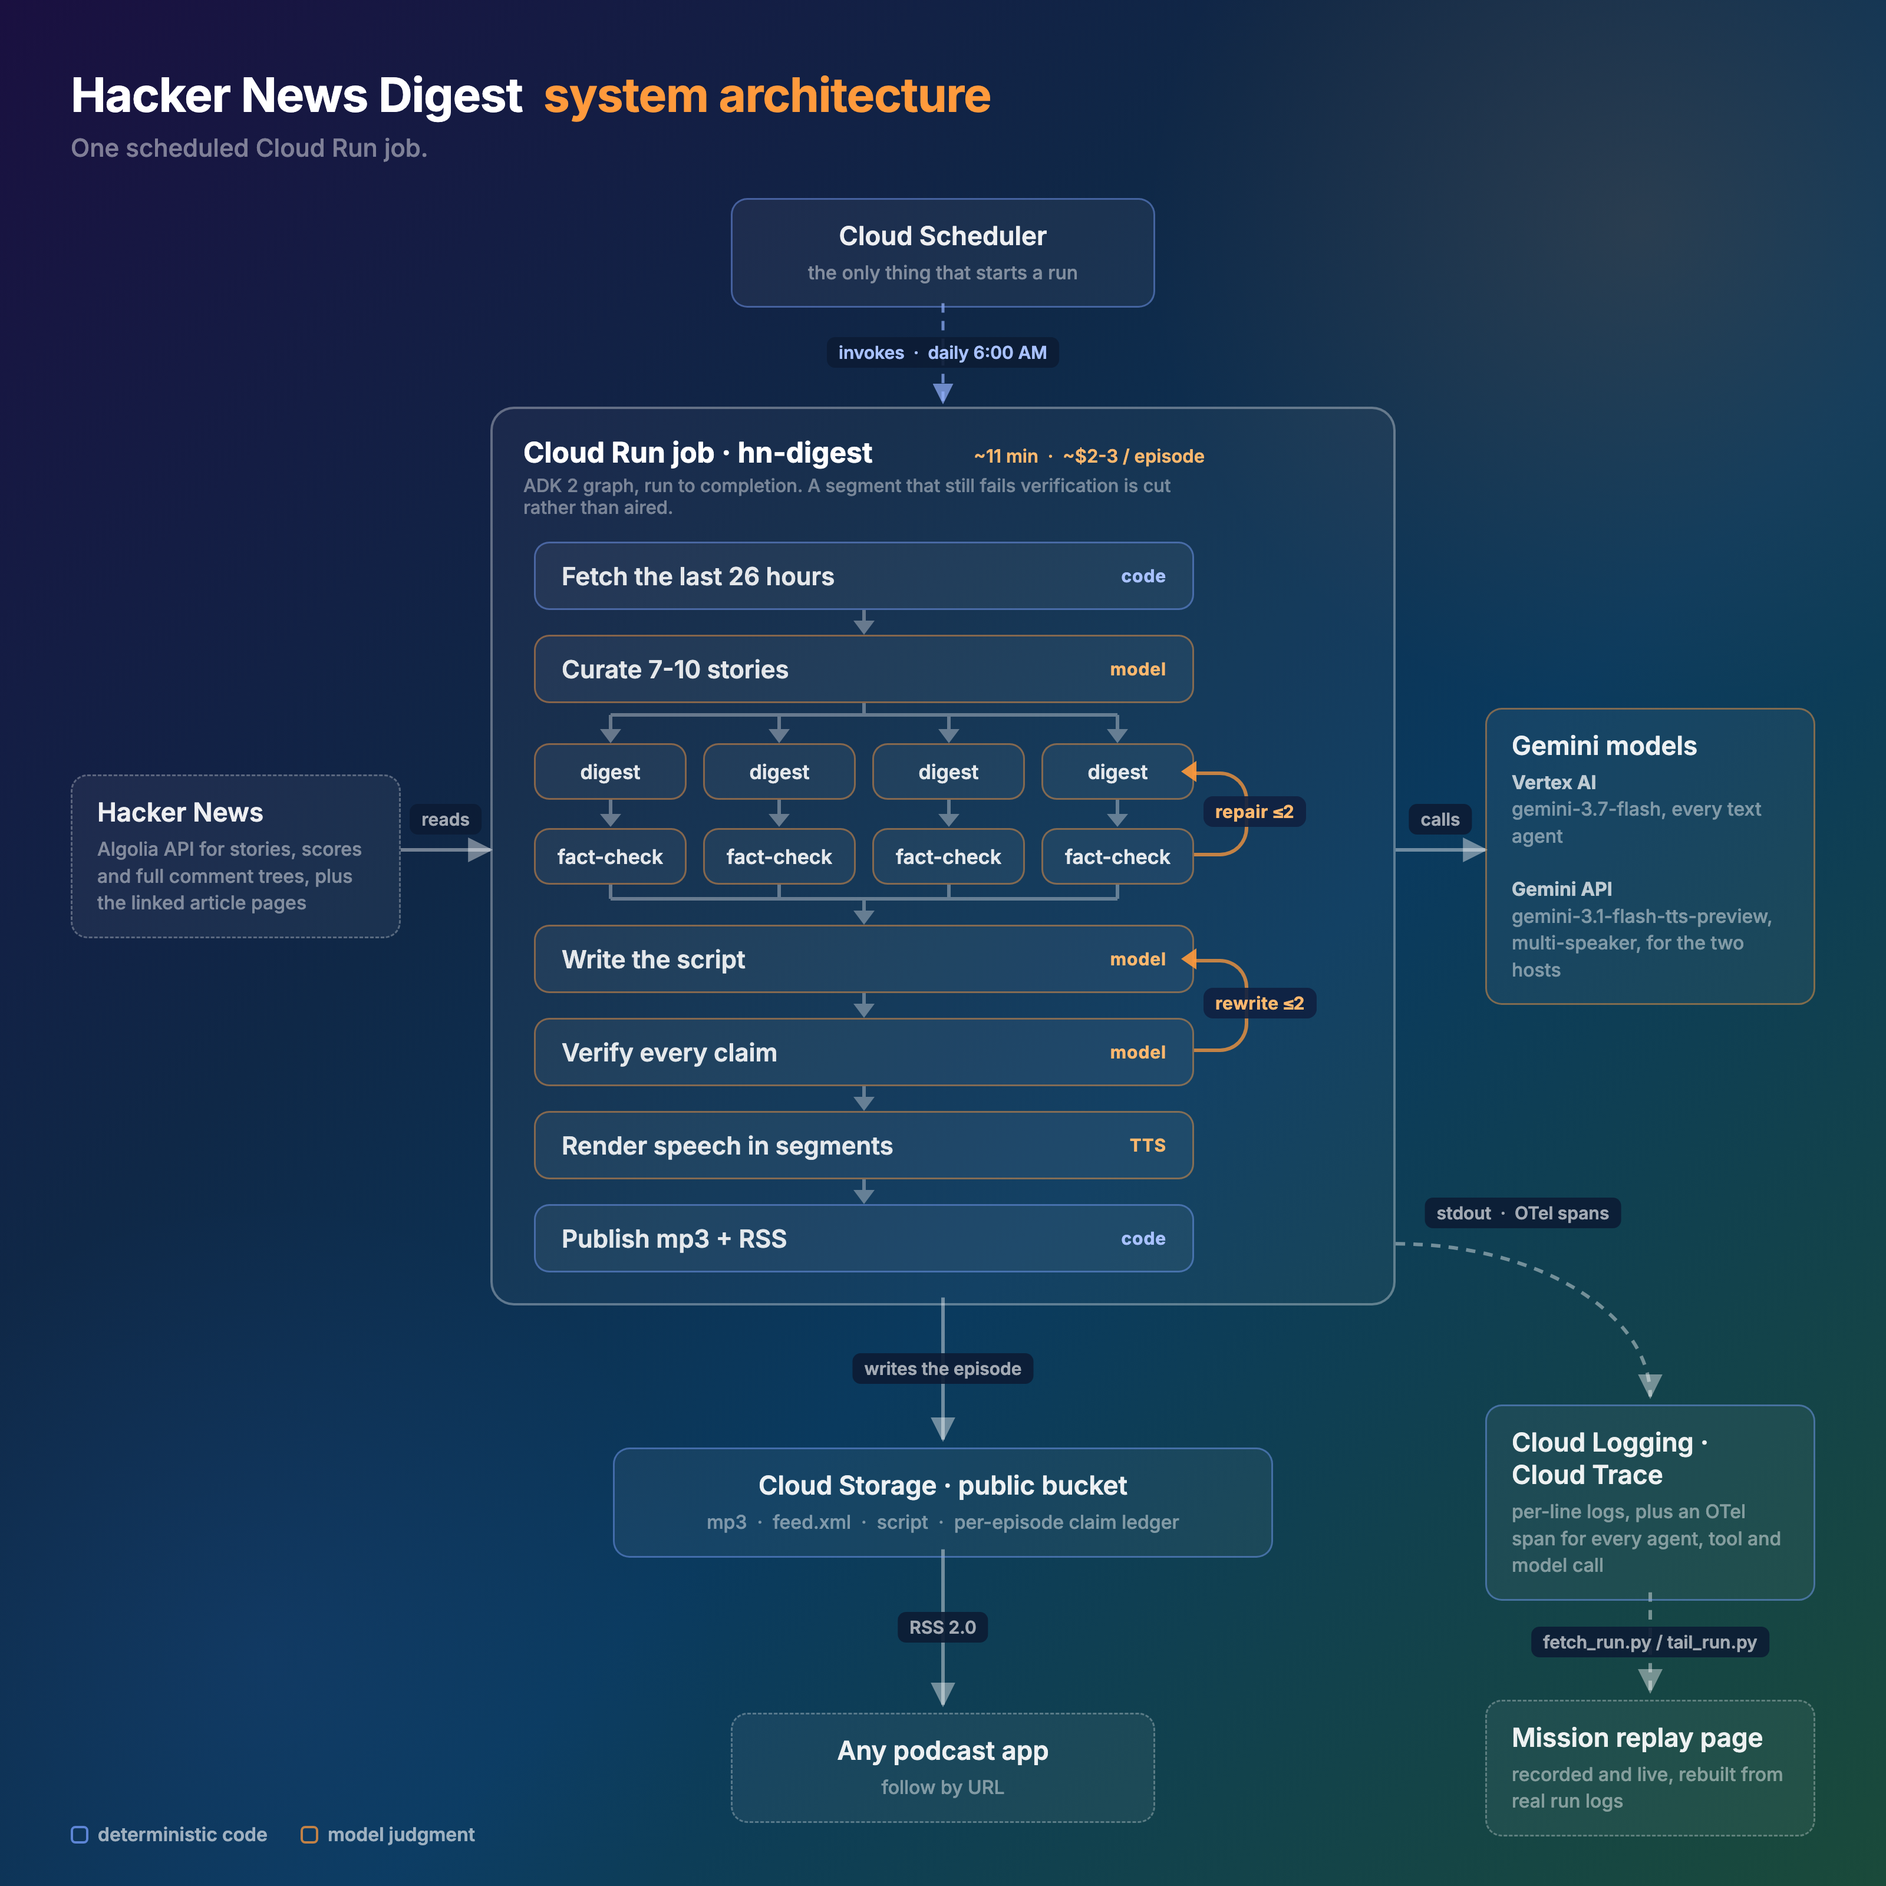
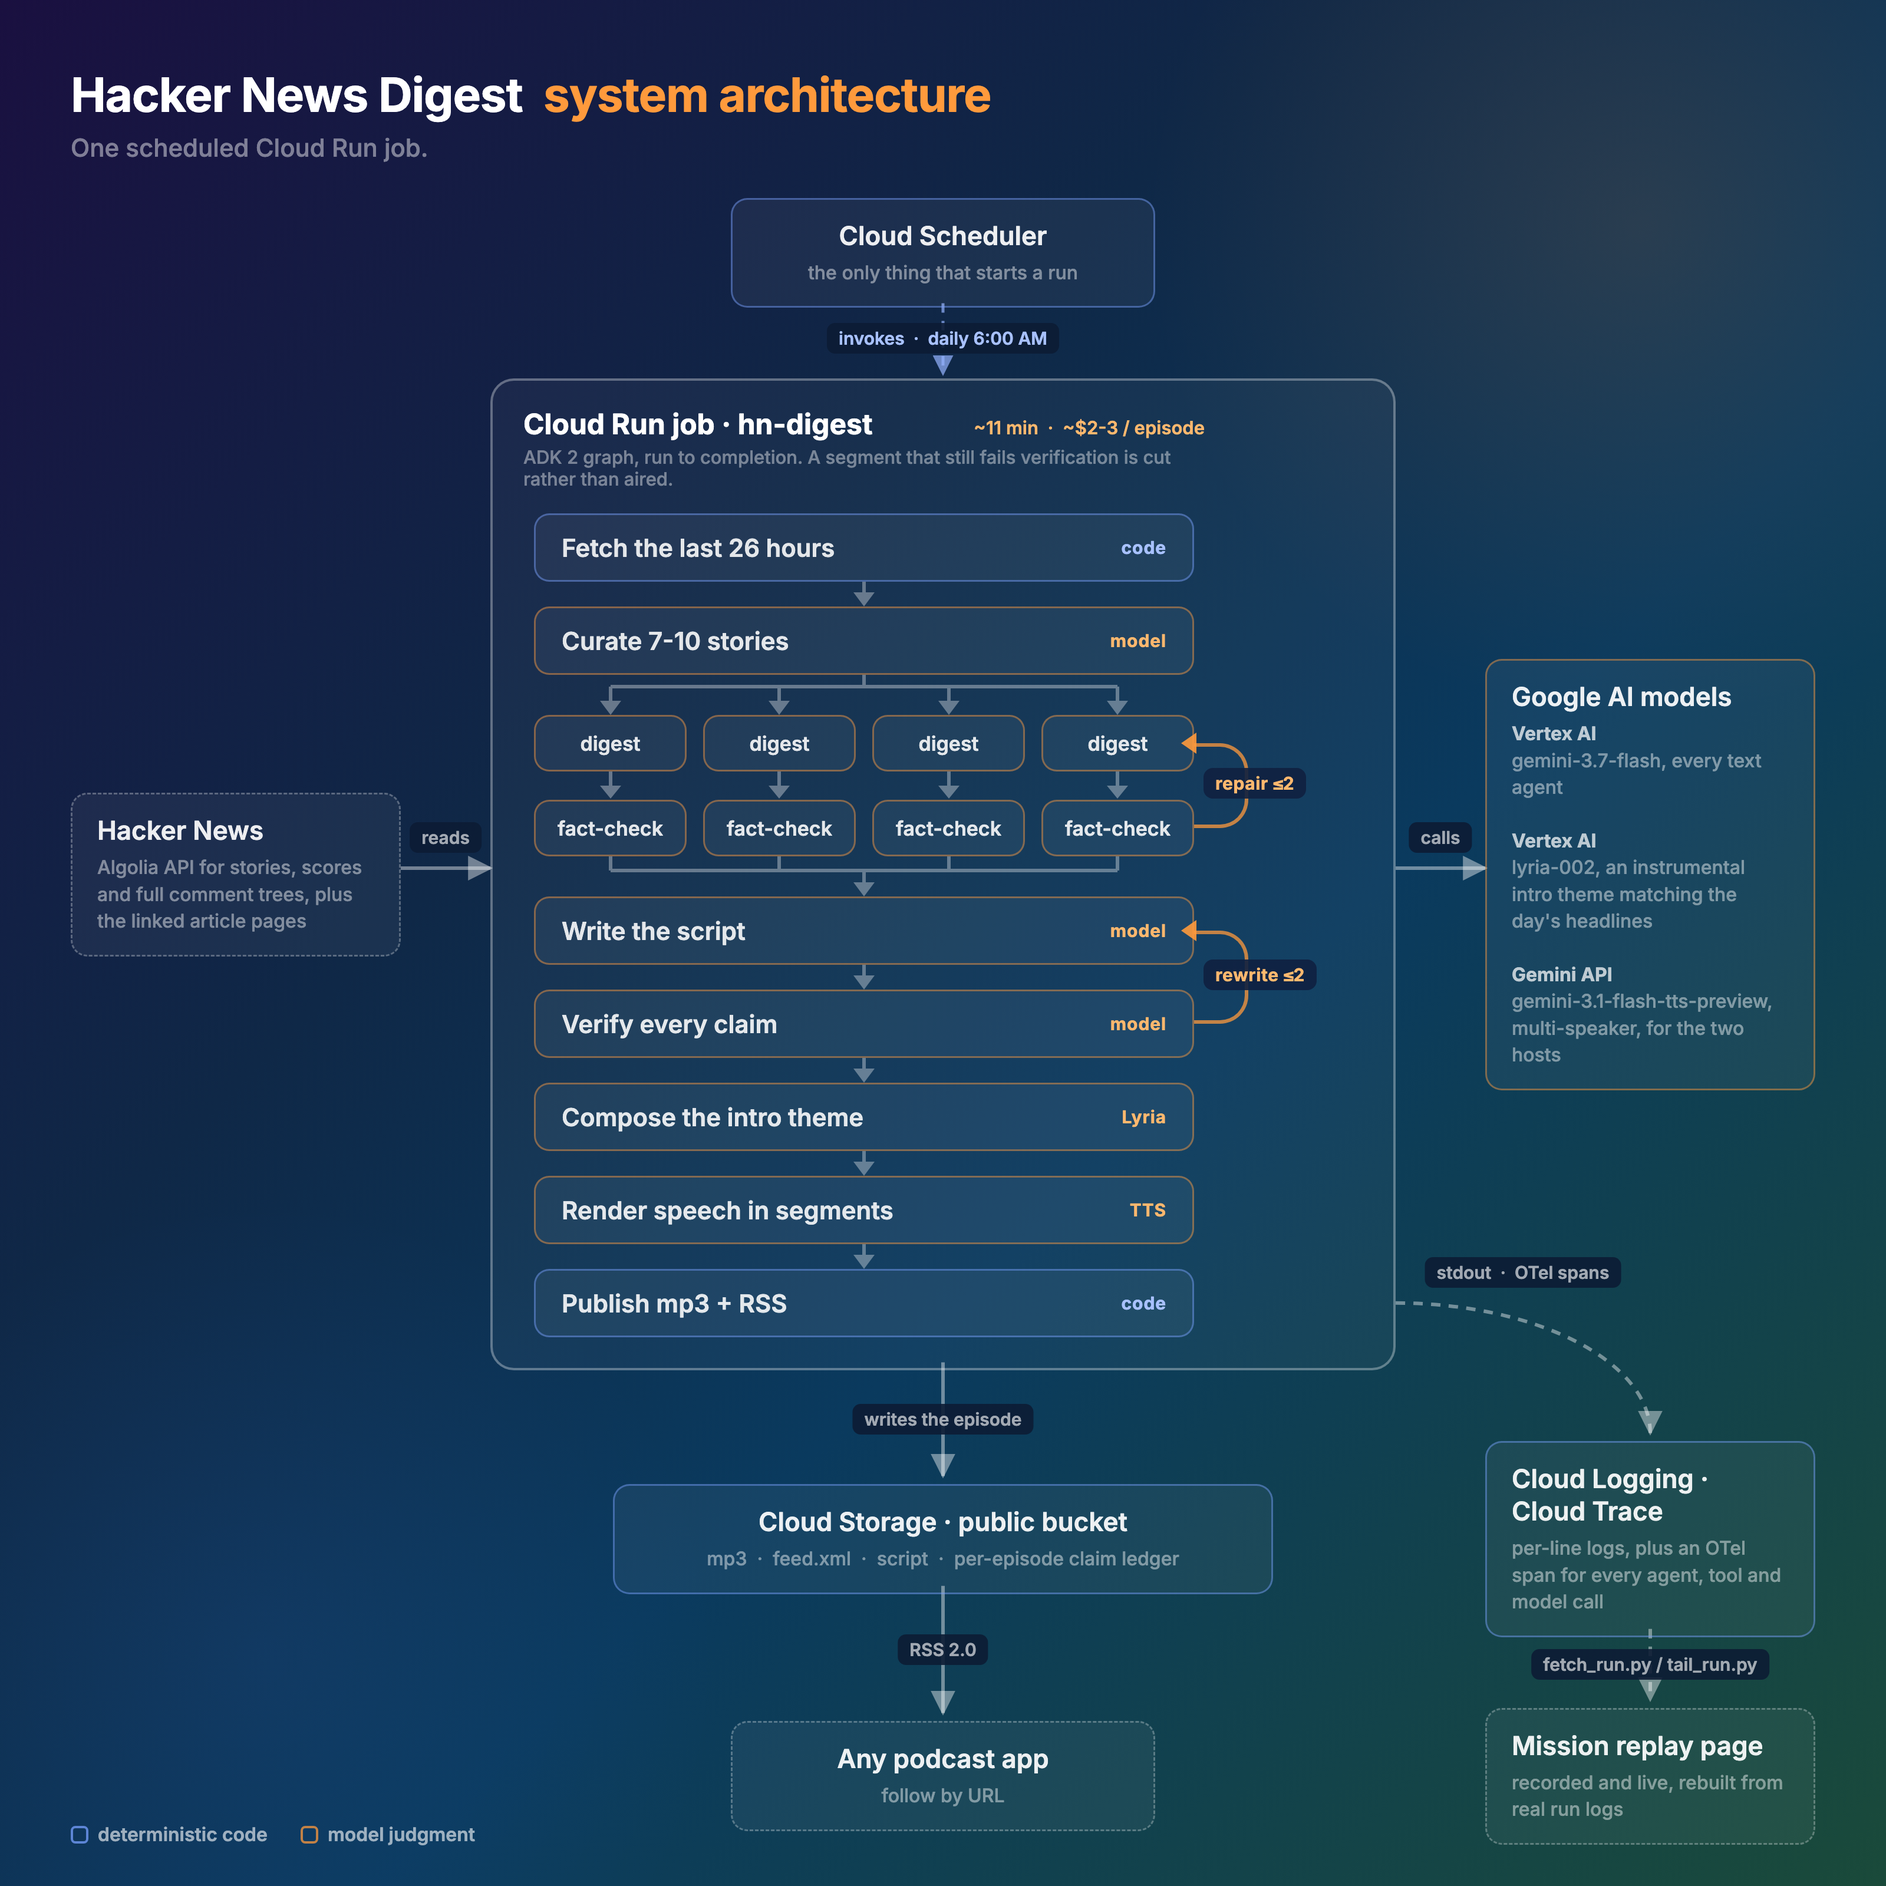
Add Lyria intro theme, topic-aligned ~1-min TTS segments, diagram update

diff --git a/assets/architecture-diagram.html b/assets/architecture-diagram.html
@@ -62,7 +62,7 @@
     /* the column gap has to be wider than the widest edge label ("reads", "calls")
        or the label overhangs the boxes it sits between */
     grid-template-columns: 280px 1fr 280px;
-    column-gap: 76px; row-gap: 84px;
+    column-gap: 76px; row-gap: 60px;
     align-items: center;
   }
 
@@ -241,6 +241,8 @@
         <div class="stem"></div><div class="arrow"></div>
         <div class="node model" id="checknode"><div class="nlabel">Verify every claim</div><div class="tag">model</div></div>
         <div class="stem"></div><div class="arrow"></div>
+        <div class="node model"><div class="nlabel">Compose the intro theme</div><div class="tag">Lyria</div></div>
+        <div class="stem"></div><div class="arrow"></div>
         <div class="node model"><div class="nlabel">Render speech in segments</div><div class="tag">TTS</div></div>
         <div class="stem"></div><div class="arrow"></div>
         <div class="node code"><div class="nlabel">Publish mp3 + RSS</div><div class="tag">code</div></div>
@@ -256,8 +258,8 @@
     </div>
 
     <div class="box model" id="gemini" style="grid-column:3; grid-row:2;">
-      <div class="t">Gemini models</div>
-      <div class="s"><b style="color:rgba(255,255,255,0.72)">Vertex AI</b><br>gemini-3.7-flash, every text agent<br><br><b style="color:rgba(255,255,255,0.72)">Gemini API</b><br>gemini-3.1-flash-tts-preview, multi-speaker, for the two hosts</div>
+      <div class="t">Google AI models</div>
+      <div class="s"><b style="color:rgba(255,255,255,0.72)">Vertex AI</b><br>gemini-3.7-flash, every text agent<br><br><b style="color:rgba(255,255,255,0.72)">Vertex AI</b><br>lyria-002, an instrumental intro theme matching the day's headlines<br><br><b style="color:rgba(255,255,255,0.72)">Gemini API</b><br>gemini-3.1-flash-tts-preview, multi-speaker, for the two hosts</div>
     </div>
 
     <div class="box code" id="gcs" style="grid-column:2; grid-row:3; justify-self:center; min-width:560px; text-align:center;">

diff --git a/pipeline/pipeline.py b/pipeline/pipeline.py
@@ -13,6 +13,9 @@ Env:
   PUBLIC_BASE_URL       public URL prefix for the bucket (for RSS links)
   WINDOW_HOURS          lookback window (default 26)
   ENABLE_TRACING=1      export ADK's OpenTelemetry spans to Cloud Trace
+  SEGMENT_WORDS         target words per TTS segment (default 160, ~1 min)
+  SEAM_GAP_MS           silence between TTS segments (default 350)
+  INTRO_MUSIC=0         disable the Lyria intro theme (default on)
 """
 
 import asyncio
@@ -80,6 +83,7 @@ class Digest(BaseModel):
 class Line(BaseModel):
     speaker: str         # "Hacker" | "News"
     text: str
+    new_topic: bool = False   # first line of a new story/section
 
 
 class Script(BaseModel):
@@ -144,6 +148,8 @@ genuine back-and-forth discussion grounded in the digests, and the QUICK
 stories as brief mentions near the end. Close with a short sign-off.
 Tone: brisk, natural, a sports-broadcast feel; light humor welcome; no
 over-the-top enthusiasm. HARD LIMIT: at most {WORD_BUDGET} words total.
+Set new_topic=true on the first line of each story's discussion, on the first
+quick-mention line, and on the sign-off; leave it false everywhere else.
 If REWRITE FEEDBACK is present: prefer DELETING or neutrally softening each
 flagged claim over rephrasing it, keep every other line as close to unchanged
 as possible, and add NO new factual material anywhere in the script.
@@ -164,6 +170,19 @@ excerpt + comment threads). List every digest statement the sources do not
 support as written: wrong facts, merged commenters, overstated prevalence
 ("many users" when sources show one or two), or anything not present at all.
 ok=true only if every statement is supported.""")
+
+class MusicPrompt(BaseModel):
+    prompt: str
+
+
+music_director = Agent(
+    name="music_director", model=MODEL_FLASH, output_schema=MusicPrompt,
+    instruction="""Write a one-line music prompt for an instrumental intro theme
+for today's episode of a tech news podcast, matching the mood of the day's
+headlines (playful for fun launches, tense for breaches and outages, and so
+on). Describe genre, instruments, tempo, and mood in plain words. Instrumental
+only; never name artists, songs, or lyrics.""")
+
 
 checker = Agent(
     name="checker", model=MODEL_PRO, output_schema=Verdict,
@@ -499,32 +518,37 @@ def review_router(node_input: dict) -> Event:
 cutter = Agent(
     name="cutter", model=MODEL_FLASH, output_schema=Script,
     instruction="Remove or neutrally soften ONLY the listed failed claims from "
-                "this script. Change nothing else. Return the full edited script.")
+                "this script. Change nothing else. Return the full edited script, "
+                "preserving every line's speaker and new_topic values.")
 
 
 @node(rerun_on_resume=True)
 async def cut_failed(ctx: Context, node_input: dict) -> dict:
-    transcript = "\n".join(f"{l.speaker}: {l.text}" for l in node_input["script"].lines)
     script = await run_agent(
         ctx, cutter, f"FAILED CLAIMS:\n{json.dumps(node_input['failed'])}\n\n"
-                    f"SCRIPT:\n{transcript}", Script)
+                    f"SCRIPT (JSON):\n{node_input['script'].model_dump_json()}", Script)
     return {**node_input, "script": script, "cut_applied": True}
 
 
-SEGMENT_WORDS = int(os.environ.get("SEGMENT_WORDS", "260"))  # ~1.5-2 min
+SEGMENT_WORDS = int(os.environ.get("SEGMENT_WORDS", "160"))      # ~1 min
+SEGMENT_MIN_WORDS = int(os.environ.get("SEGMENT_MIN_WORDS", "90"))
+SEAM_GAP_MS = int(os.environ.get("SEAM_GAP_MS", "350"))
 
 
 def chunk_lines(lines):
-    """Split the script at speaker-turn boundaries into ~SEGMENT_WORDS chunks.
-    TTS quality degrades on outputs longer than a few minutes, so each chunk
-    renders separately and the PCM is concatenated."""
+    """Split the script at speaker-turn boundaries into ~SEGMENT_WORDS chunks,
+    starting a fresh chunk early where the script marks a new topic (so audio
+    segments line up with story boundaries). TTS quality degrades on outputs
+    longer than a few minutes, so each chunk renders separately and the PCM is
+    concatenated."""
     chunks, cur, words = [], [], 0
     for l in lines:
-        cur.append(l)
-        words += len(l.text.split())
-        if words >= SEGMENT_WORDS:
+        if cur and (words >= SEGMENT_WORDS
+                    or (l.new_topic and words >= SEGMENT_MIN_WORDS)):
             chunks.append(cur)
             cur, words = [], 0
+        cur.append(l)
+        words += len(l.text.split())
     if cur:
         chunks.append(cur)
     return chunks
@@ -551,9 +575,90 @@ def tts_chunk(client, chunk):
             raise
 
 
+# Lyria intro music. INTRO_MUSIC=0 disables; a Lyria failure never fails the
+# episode. Lyria's recitation check rejects some prompts outright, hence the
+# known-good fallback prompt.
+LYRIA_MODEL = os.environ.get("LYRIA_MODEL", "lyria-002")
+LYRIA_LOCATION = os.environ.get("LYRIA_LOCATION", "us-central1")
+INTRO_SECONDS = float(os.environ.get("INTRO_SECONDS", "5.5"))
+INTRO_FADE_SECONDS = float(os.environ.get("INTRO_FADE_SECONDS", "1.5"))
+INTRO_VOICE_OVERLAP = float(os.environ.get("INTRO_VOICE_OVERLAP", "1.5"))
+INTRO_FALLBACK_PROMPT = (
+    "bright minimal electronic instrumental, gentle plucked synth melody over "
+    "a soft four-on-the-floor beat, morning news show opener feel, 120 bpm")
+
+
+def lyria_generate(prompt):
+    import google.auth
+    import google.auth.transport.requests
+    creds, project = google.auth.default(
+        scopes=["https://www.googleapis.com/auth/cloud-platform"])
+    if not creds.valid:
+        creds.refresh(google.auth.transport.requests.Request())
+    r = requests.post(
+        f"https://{LYRIA_LOCATION}-aiplatform.googleapis.com/v1/projects/"
+        f"{project}/locations/{LYRIA_LOCATION}/publishers/google/models/"
+        f"{LYRIA_MODEL}:predict",
+        headers={"Authorization": f"Bearer {creds.token}"},
+        json={"instances": [{"prompt": prompt,
+                             "negative_prompt": "vocals, singing, lyrics"}],
+              "parameters": {"sample_count": 1}},
+        timeout=120)
+    r.raise_for_status()
+    return base64.b64decode(r.json()["predictions"][0]["bytesBase64Encoded"])
+
+
+@node(rerun_on_resume=True)
+async def compose_intro(ctx: Context, node_input: dict) -> dict:
+    if os.environ.get("DRY_RUN") == "1" or os.environ.get("INTRO_MUSIC", "1") != "1":
+        print("compose_intro: skipped")
+        return {**node_input, "intro_wav": None}
+    titles = "; ".join(node_input["by_id"][p.story_id]["title"]
+                       for p in node_input["picks"])
+    try:
+        mp = await run_agent(ctx, music_director,
+                             f"TODAY'S HEADLINES: {titles}", MusicPrompt)
+        prompts = [mp.prompt, INTRO_FALLBACK_PROMPT]
+    except Exception as e:
+        print(f"compose_intro: music_director failed ({str(e)[:120]}); "
+              "using fallback prompt")
+        prompts = [INTRO_FALLBACK_PROMPT]
+    for prompt in prompts:
+        try:
+            wav = await asyncio.to_thread(lyria_generate, prompt)
+        except Exception as e:
+            print(f"compose_intro: lyria rejected prompt ({str(e)[:120]})")
+            continue
+        os.makedirs("out", exist_ok=True)
+        with open("out/intro.wav", "wb") as f:
+            f.write(wav)
+        print(f"compose_intro: {len(wav)} bytes <- {prompt}")
+        return {**node_input, "intro_wav": "out/intro.wav", "intro_prompt": prompt}
+    print("compose_intro: no music this episode")
+    return {**node_input, "intro_wav": None}
+
+
+def mix_intro(intro_path, speech_path, out_path):
+    """Prepend the intro: music plays alone, fades out, and the hosts start
+    over the fade tail (voice enters at full level, no fade-in)."""
+    fade_start = INTRO_SECONDS - INTRO_FADE_SECONDS
+    voice_at_ms = int((INTRO_SECONDS - INTRO_VOICE_OVERLAP) * 1000)
+    subprocess.run(
+        ["ffmpeg", "-y", "-loglevel", "error",
+         "-i", intro_path, "-i", speech_path,
+         "-filter_complex",
+         f"[0:a]atrim=0:{INTRO_SECONDS},aresample=24000,"
+         f"pan=mono|c0=.5*c0+.5*c1,volume=0.8,"
+         f"afade=t=out:st={fade_start}:d={INTRO_FADE_SECONDS}[m];"
+         f"[1:a]adelay={voice_at_ms}:all=1[v];"
+         "[m][v]amix=inputs=2:duration=longest:normalize=0[out]",
+         "-map", "[out]", "-ar", "24000", "-ac", "1", out_path],
+        check=True)
+
+
 def render_transcript(lines):
     client = genai.Client(api_key=os.environ["GEMINI_API_KEY"], enterprise=False)
-    gap = b"\x00" * (int(24000 * 0.35) * 2)   # 350ms silence between segments
+    gap = b"\x00" * (int(24000 * SEAM_GAP_MS / 1000) * 2)   # silence between segments
     parts = []
     chunks = chunk_lines(lines)
     for i, chunk in enumerate(chunks):
@@ -576,9 +681,14 @@ def render_tts(node_input: dict) -> dict:
     with wave.open(wav_path, "wb") as wf:
         wf.setnchannels(1); wf.setsampwidth(2); wf.setframerate(24000)
         wf.writeframes(pcm)
+    if node_input.get("intro_wav"):
+        speech_path = f"out/{stamp}-speech.wav"
+        os.replace(wav_path, speech_path)
+        mix_intro(node_input["intro_wav"], speech_path, wav_path)
     subprocess.run(["ffmpeg", "-y", "-loglevel", "error", "-i", wav_path,
                     "-b:a", "128k", mp3_path], check=True)
-    dur = len(pcm) // (24000 * 2)
+    with wave.open(wav_path, "rb") as wf:
+        dur = wf.getnframes() // wf.getframerate()
     print(f"render_tts: {dur}s episode, {len(chunk_lines(node_input['script'].lines))} segments -> {mp3_path}")
     return {**node_input, "mp3": mp3_path, "duration_s": dur, "date": stamp}
 
@@ -671,8 +781,9 @@ workflow = Workflow(
          fact_check, review_router),
         (review_router, {"REWRITE": write_script,
                          "CUT": cut_failed,
-                         "RENDER": render_tts}),
+                         "RENDER": compose_intro}),
         (cut_failed, fact_check),
+        (compose_intro, render_tts),
         (render_tts, publish),
     ],
 )

diff --git a/pipeline/README.md b/pipeline/README.md
@@ -21,6 +21,9 @@ Ported from the public article repo for the All Things Agentic Hackathon submiss
 - `DRY_RUN=1`: stop before TTS and publishing, for cheap logic tests
 - `ENABLE_TRACING=1`: export agent/tool/model spans to Cloud Trace (service account needs `roles/cloudtrace.agent`, then view at Console > Trace explorer)
 - `WINDOW_HOURS`: lookback window in hours, default 26
+- `SEGMENT_WORDS`: target words per TTS segment, default 160 (about a minute of speech); segments break only between speaker turns, and prefer to break where a new story starts
+- `SEAM_GAP_MS`: silence inserted between TTS segments, default 350
+- `INTRO_MUSIC=0`: disable the Lyria-generated intro theme (on by default; a `music_director` agent writes a music prompt from the day's headlines, Lyria renders ~30s of instrumental audio, and ffmpeg fades it under the hosts' opening lines; any Lyria failure just skips the music)
 
 ## Run it yourself, step by step
 
